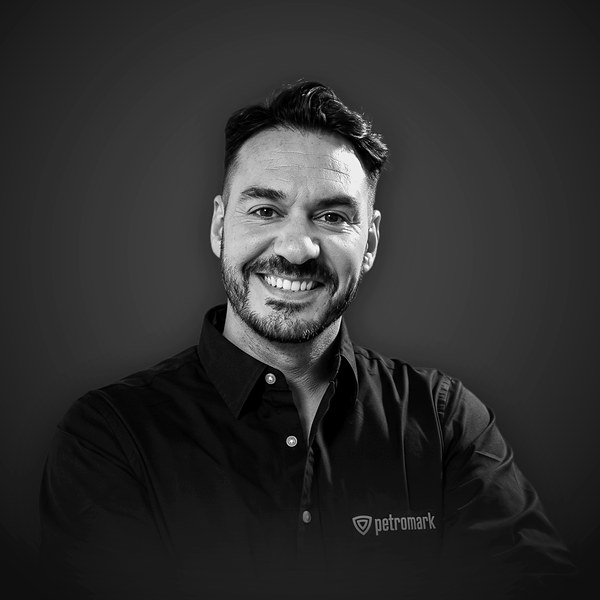
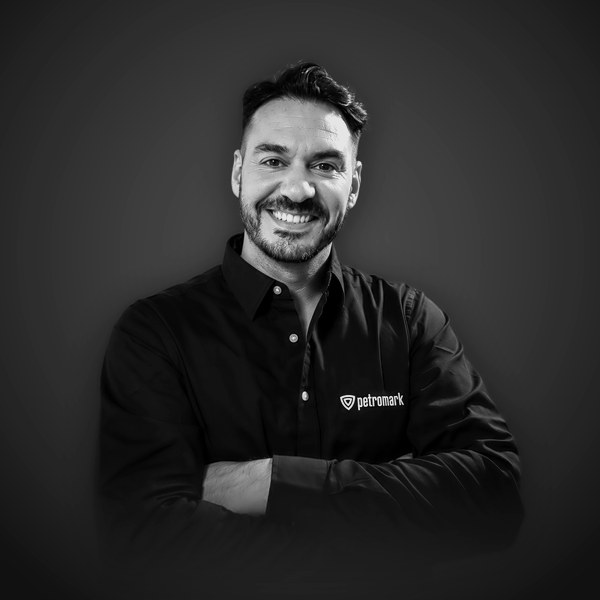
Fotos de Emilio Canullo y Gonzalo Gimenez en plano medio
fotos.py: encuadre global más abierto (ZOOM 6.0), sin ajustes por persona.

Changed region(s): [[0.09, 0.09, 0.9, 0.87], [0.57, 0.84, 0.72, 0.9], [0.51, 0.84, 0.54, 0.87]]

diff --git a/fotos.py b/fotos.py
@@ -19,13 +19,10 @@ RAIZ = Path(__file__).parent
 ORIGINALES = RAIZ / "fotos_originales"
 EDITADAS = RAIZ / "fotos_editadas"      # fotos ya retocadas (ChatGPT): tienen prioridad
 LADO = 600                      # px del cuadrado final
-HEADROOM = 0.13                 # aire sobre la cabeza, fracción del lado
-ZOOM = 3.2                      # lado del recorte = ZOOM × ancho de la cara
+HEADROOM = 0.10                 # aire sobre la cabeza, fracción del lado
+ZOOM = 6.0                      # lado del recorte = ZOOM × ancho de la cara
 ESPEJO = set()                     # personas cuya foto se voltea horizontalmente
-ZOOM_POR_SLUG = {                 # ajustes puntuales aprobados por el usuario (más alto = más lejos)
-    "ggimenez": 4.6,
-    "rparra": 3.7,
-}
+ZOOM_POR_SLUG = {}
 FONDO_CENTRO = (0x4a, 0x4a, 0x4d)
 FONDO_BORDE = (0x14, 0x12, 0x10)
 
